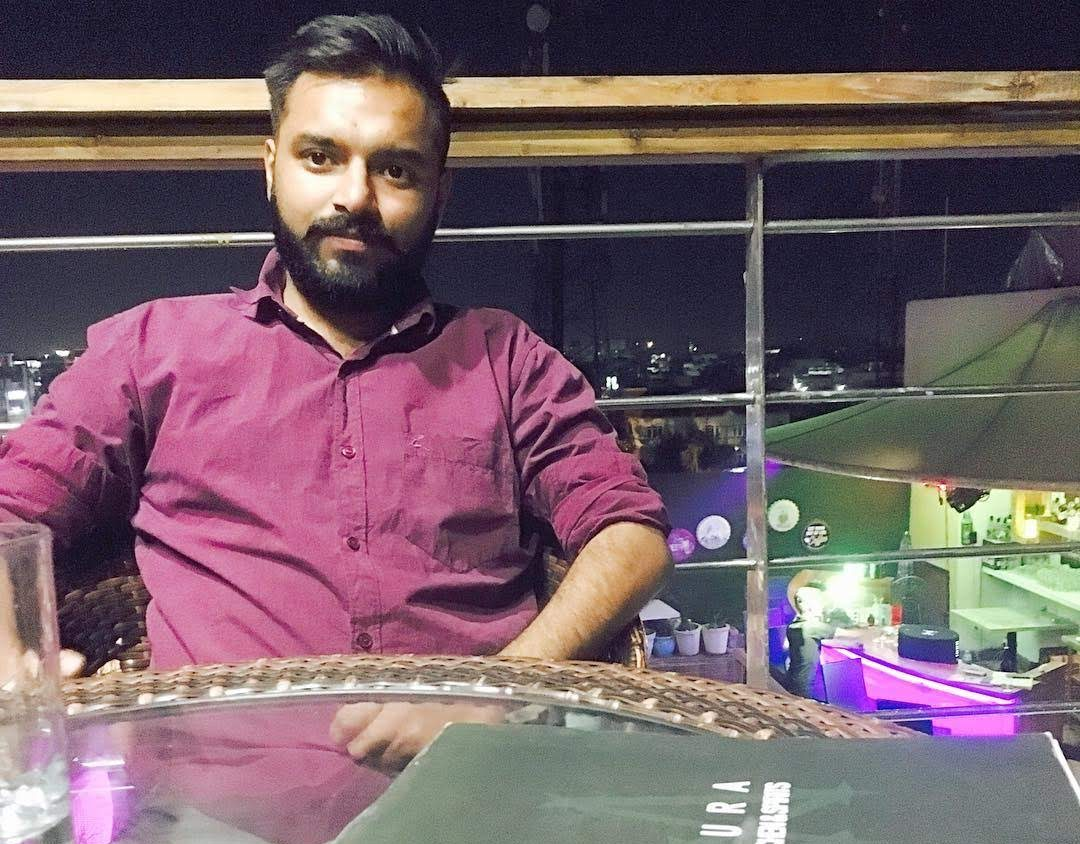
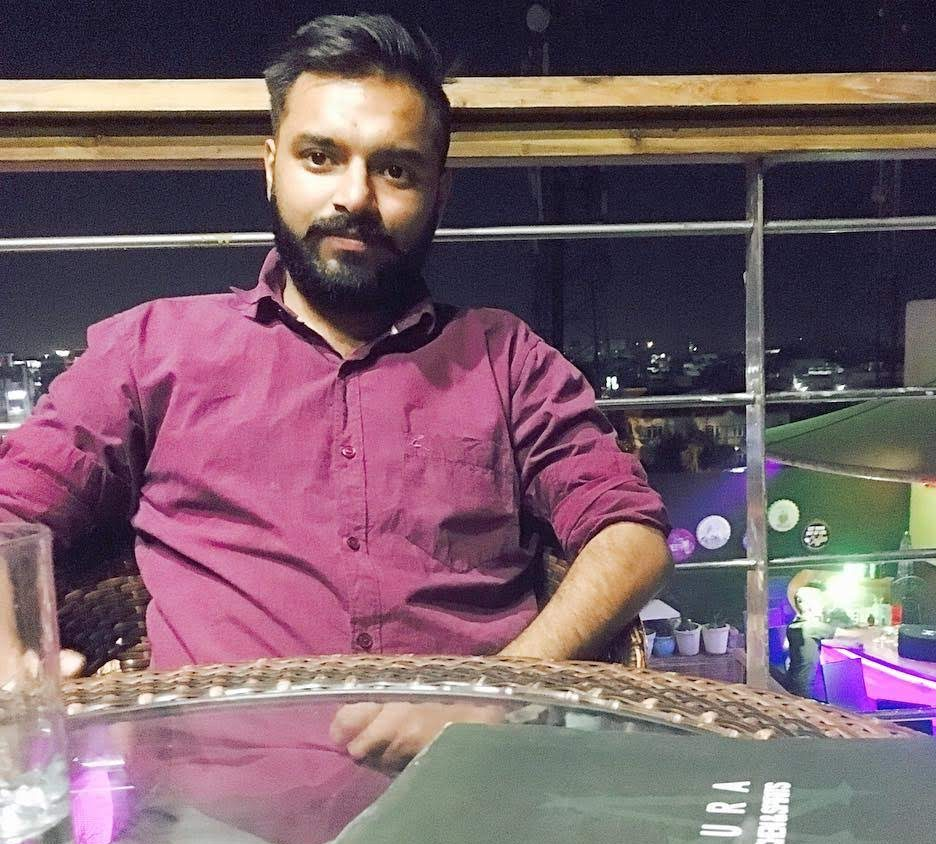
.

diff --git a/index.html b/index.html
@@ -67,7 +67,7 @@
             <div class="row">
               <div class="col-md-8 col-md-offset-2 wp1">
                 <h1 class="arrow">Who am I?</h1>
-                  <img class="img-circle" src="img/abhay.jpg" alt="Abhay Chauhan" height="300" width="400">
+                  <img class="img-circle" src="img/abhay.jpg" alt="Abhay Chauhan" height="300" width="350">
                   <p>Ever met any hardcore Engineer who loves to innovate and create awsome stuff? That's who I am like. </p>
               </div>
             </div>
